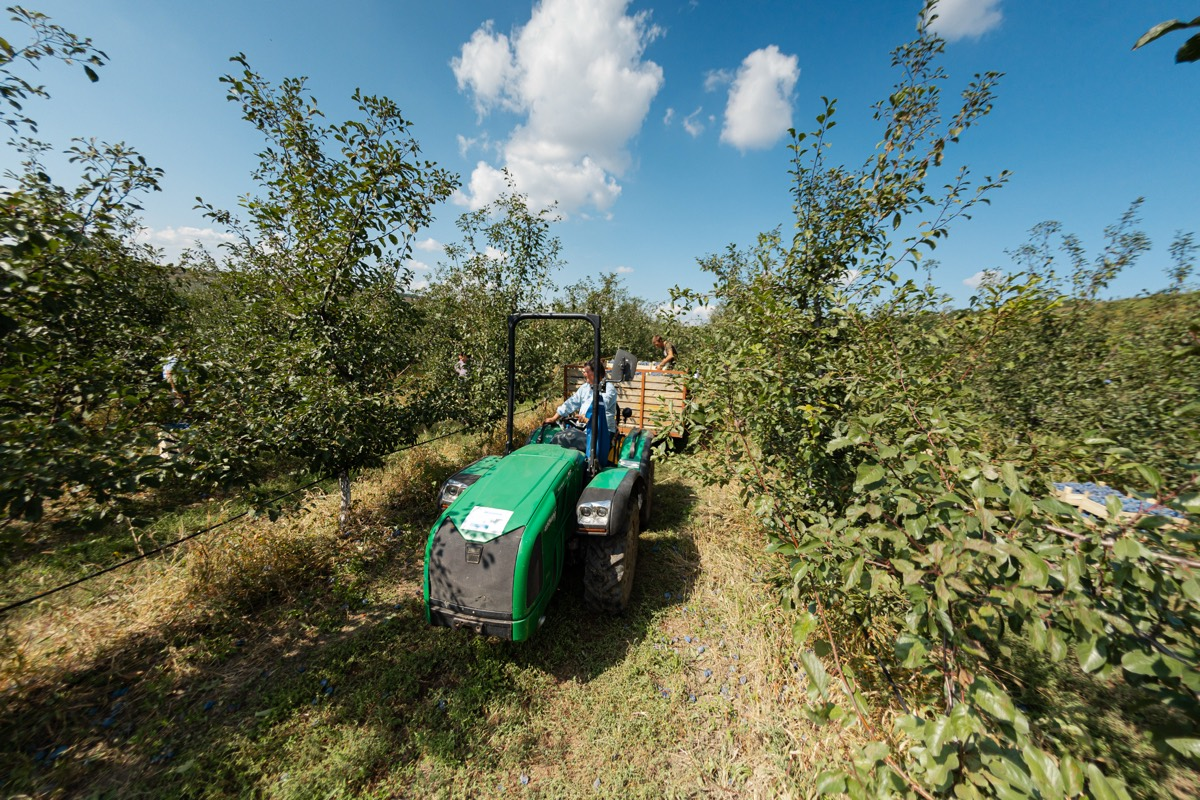
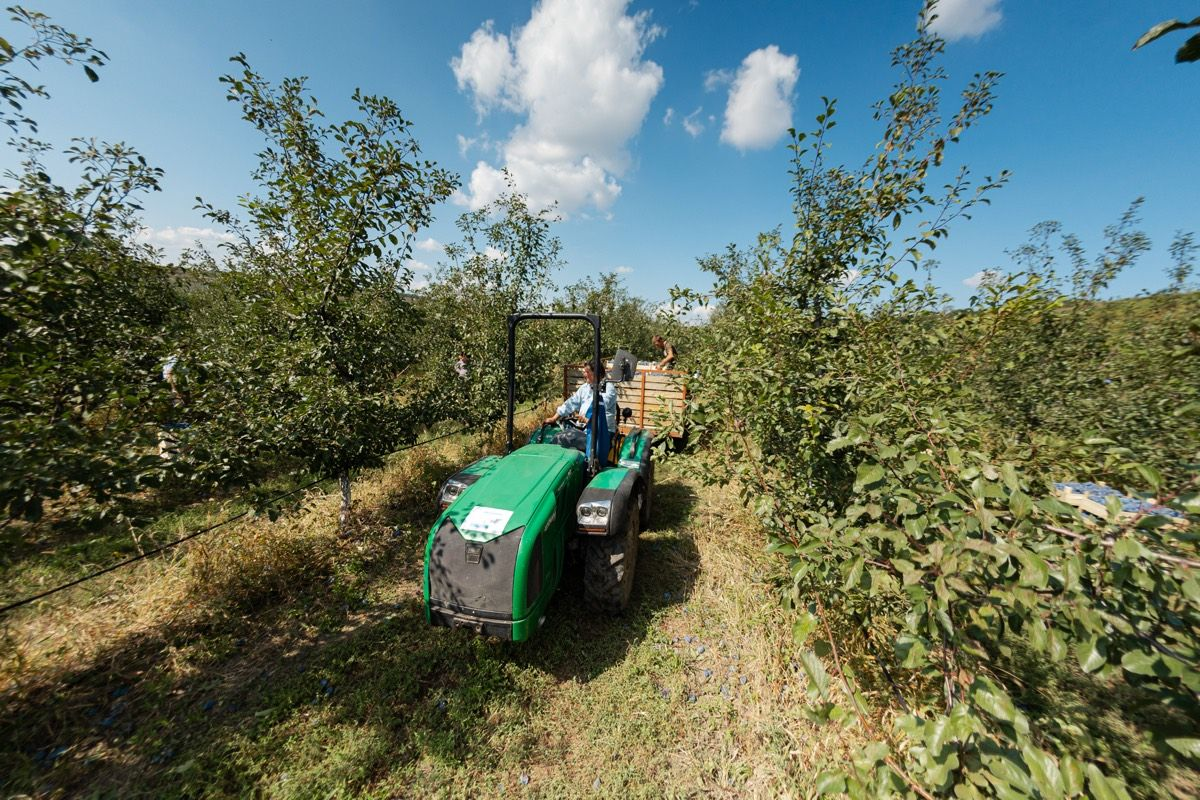
Compress hero photos and add a branded social-preview image
Recompress six JPEGs at quality 80 (progressive), cutting page
weight with no visible quality loss. Replace the raw hero photo
used for link previews with a composited 1200x630 image (photo +
logo + tagline) sized to the standard Open Graph dimensions.

Changed region(s): [[0.7092, 0.2188, 0.74, 0.25]]

diff --git a/index-ro.html b/index-ro.html
@@ -8,7 +8,9 @@
   <meta property="og:type" content="website" />
   <meta property="og:title" content="Villa Rustica: From Roots to Fruits" />
   <meta property="og:description" content="Prune Stanley și struguri de Moldova, cultivate de familia noastră, exportate în Europa din 2013." />
-  <meta property="og:image" content="https://villarustica.md/assets/hero.jpg" />
+  <meta property="og:image" content="https://villarustica.md/assets/og-image.jpg" />
+  <meta property="og:image:width" content="1200" />
+  <meta property="og:image:height" content="630" />
   <meta property="og:url" content="https://villarustica.md/index-ro.html" />
   <meta name="twitter:card" content="summary_large_image" />
   <link rel="icon" type="image/x-icon" href="assets/favicon.ico?v=1" />

diff --git a/index.html b/index.html
@@ -8,7 +8,9 @@
   <meta property="og:type" content="website" />
   <meta property="og:title" content="Villa Rustica: From Roots to Fruits" />
   <meta property="og:description" content="Family-grown Stanley plums and Moldova grapes, exported across Europe since 2013." />
-  <meta property="og:image" content="https://villarustica.md/assets/hero.jpg" />
+  <meta property="og:image" content="https://villarustica.md/assets/og-image.jpg" />
+  <meta property="og:image:width" content="1200" />
+  <meta property="og:image:height" content="630" />
   <meta property="og:url" content="https://villarustica.md/" />
   <meta name="twitter:card" content="summary_large_image" />
   <link rel="icon" type="image/x-icon" href="assets/favicon.ico?v=1" />
